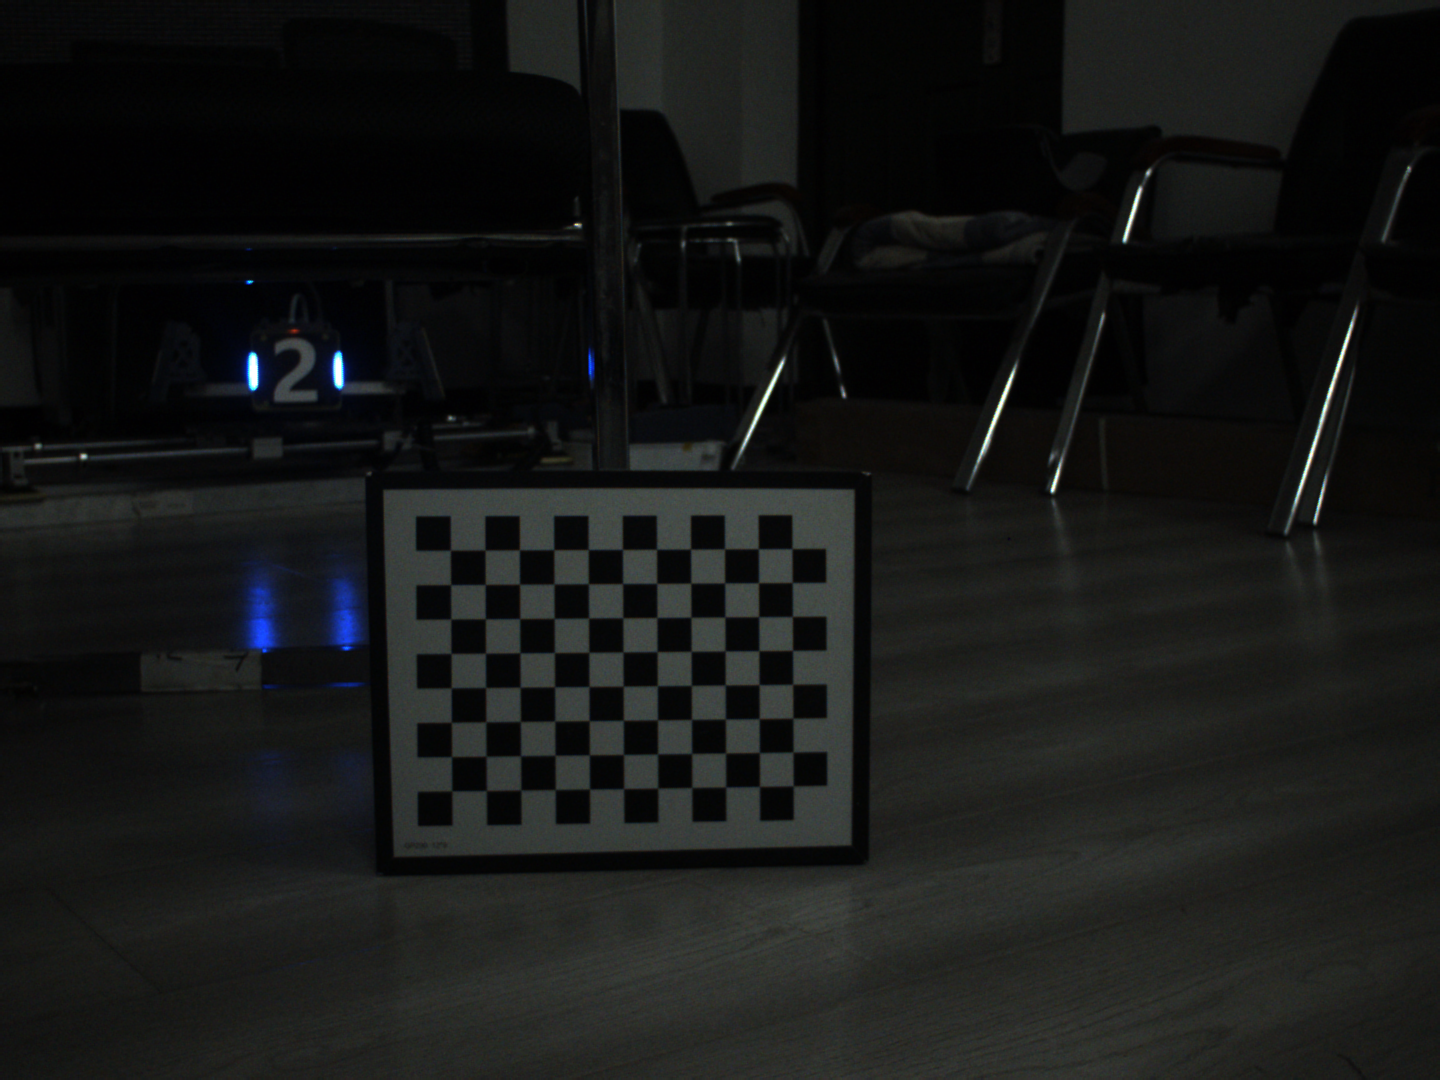
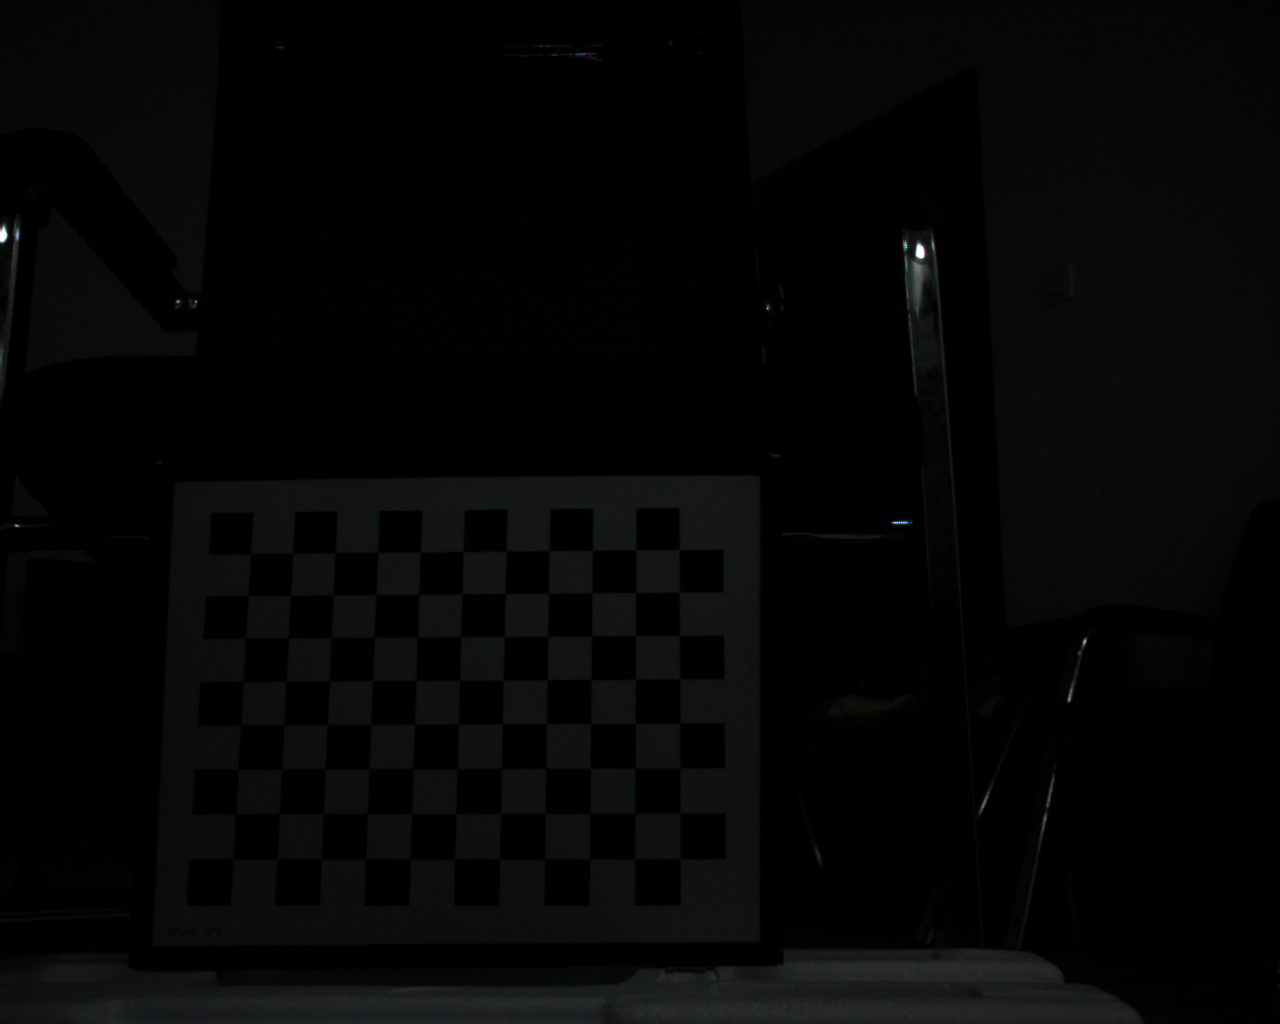
zhanchun

diff --git a/rm-main/include/RerunVisualizer.hpp b/rm-main/include/RerunVisualizer.hpp
@@ -8,12 +8,15 @@
 #include <string>
 #include <cmath>
 
+#include "MeasureCov.hpp" 
+
 // 包含你的 Robot 定义
 #include "Target.hpp" 
 
 class RerunVisualizer {
 private:
     rerun::RecordingStream rec;
+    MeasureCov measure_cov; // 用于计算协方差的工具类实例
 
 public:
     // 构造函数：初始化 Rerun 并唤起 Viewer
@@ -147,7 +150,7 @@ public:
 
         // --- 新增：渲染当前枪管的瞄准射线 (青色长线) ---
         // 假设原点 {0,0,0} 为当前云台/相机位置，枪管是一根 20cm 长的射线
-        rec.log("world/gun_ray",
+        rec.log("world/gun_vector",
             rerun::Arrows3D::from_vectors({{
                 (float)Gun(0, 0) * 20.0f, 
                 (float)Gun(1, 0) * 20.0f, 
@@ -208,58 +211,21 @@ public:
         rec.log("world/EKF/view_yaw",rerun::SeriesLines().with_colors({{0, 255, 255, 255}})); // 青色
         rec.log("world/EKF/view_yaw", 
             rerun::Scalars((float)View(3, 0))); // 青色
-
-        
-        // rec.log("world/EKF/w", rerun::SeriesLines().with_colors({{255, 165, 0, 255}})); // 橙色
-        // rec.log("world/EKF/w", rerun::Scalars(w)); //
-
-        // rec.log("world/EKF/v_total", rerun::SeriesLines().with_colors({{255, 165, 0, 255}})); // 橙色
-        // rec.log("world/EKF/v_total", rerun::Scalars((float)State.block<3,1>(4,0).norm()/100.0f)); // 速度模长
-
-        // ==========================================
-        // 3. 协方差收敛波形图 (监控不确定性)
-        // ==========================================
-        // rec.log("plot/EKF_cov/pos_x_variance", rerun::SeriesLines().with_colors({255, 0, 0, 255}));
-        // rec.log("plot/EKF_cov/pos_y_variance", rerun::SeriesLines().with_colors({0, 255, 0, 255}));
-        // rec.log("plot/EKF_cov/yaw_variance",   rerun::SeriesLines().with_colors({0, 0, 255, 255}));
-
-        // rec.log("plot/EKF_cov/pos_x_variance", rerun::Scalars(CovState(0, 0))); // x 方差
-        // rec.log("plot/EKF_cov/pos_y_variance", rerun::Scalars(CovState(1, 1))); // y 方差
-        // rec.log("plot/EKF_cov/yaw_variance",   rerun::Scalars(CovState(3, 3))); // yaw 方差
-
-        // rec.log("plot/EKF_cov/measurement_x_var", rerun::SeriesLines().with_colors({255, 255, 255, 255}));
-        // rec.log("plot/EKF_cov/measurement_x_var", rerun::Scalars(CovArmor(0, 0)));
-
-        // ==========================================
-        // 4. 卡尔曼增益 (Kalman Gain) 波形图
-        // ==========================================
-        // 假设 View(0) 是 X位置观测，State(0) 是 X位置状态，State(4) 是 X速度状态
-        
-        // A. 观测位置 X 对 状态位置 X 的增益 (K_xx)
-        // rec.log("plot/EKF_gain/gain_posX_to_posX", rerun::SeriesLines().with_colors({255, 100, 100, 255}));
-        // rec.log("plot/EKF_gain/gain_posX_to_posX", rerun::Scalars(KalmanGain(0, 0)));
-
-        // // B. 观测位置 Y 对 状态位置 Y 的增益 (K_yy)
-        // rec.log("plot/EKF_gain/gain_posY_to_posY", rerun::SeriesLines().with_colors({100, 255, 100, 255}));
-        // rec.log("plot/EKF_gain/gain_posY_to_posY", rerun::Scalars(KalmanGain(1, 1)));
-
-        // // C. 观测位置 X 对 状态速度 VX 的增益 (K_vx_x) 
-        // // -> 这个值决定了当目标突然加速时，滤波器修正速度的灵敏度！
-        // rec.log("plot/EKF_gain/gain_posX_to_velX", rerun::SeriesLines().with_colors({255, 200, 0, 255}));
-        // rec.log("plot/EKF_gain/gain_posX_to_velX", rerun::Scalars(KalmanGain(4, 0)));
-        
-        // // D. 观测 yaw 对 状态 yaw_v 的增益 (如果你的模型包含角速度)
-        // rec.log("plot/EKF_gain/gain_yaw_to_yawV", rerun::SeriesLines().with_colors({100, 100, 255, 255}));
-        // rec.log("plot/EKF_gain/gain_yaw_to_yawV", rerun::Scalars(KalmanGain(7, 3))); 
     }
 
 
-    void viewCov(const std::array<double, 4>& CovView) 
+    void viewCov(const Eigen::Matrix<double, 4, 1>& View) 
     {
-        rec.log("Cov/x", rerun::Scalars(CovView[0]));
-        rec.log("Cov/y", rerun::Scalars(CovView[1]));
-        rec.log("Cov/z", rerun::Scalars(CovView[2]));
-        rec.log("Cov/yaw", rerun::Scalars(CovView[3]));
+        std::array<double, 4> CovView = this->measure_cov(View);
+        
+        rec.log("Cov/x", rerun::Scalars((float)CovView[0]));
+        rec.log("Cov/y", rerun::Scalars((float)CovView[1]));
+        rec.log("Cov/z", rerun::Scalars((float)CovView[2]));
+        rec.log("Cov/yaw", rerun::Scalars((float)CovView[3]));
+    }
+    void show(std::string msg,double value)
+    {
+        rec.log(msg, rerun::Scalars((float)value));
     }
 };
 #endif // RERUN_VISUALIZER_HPP

diff --git a/rm-main/src/Solver.cpp b/rm-main/src/Solver.cpp
@@ -8,6 +8,12 @@
 #include <vector>
 #include <numeric>
 
+#define SolverDebug
+#ifdef SolverDebug
+#include "../include/RerunVisualizer.hpp"
+extern RerunVisualizer viz;
+#endif
+
 Solver::Solver(std::string config_path)
 {
     // this->cameraMatrix(3,3);
@@ -82,9 +88,11 @@ std::array<ArmorPosi,2> Solver::operator () (const Armor& armor)
 
         cv::Mat Z_camera_0 = r_0 * Z_vector;
         cv::Mat Z_camera_1 = r_1 * Z_vector;
-
         cv::Mat R,T;
-        // std::cerr<<Z_camera_0.at<double>(2,0)<<" "<<Z_camera_1.at<double>(2,0)<<std::endl;
+        #ifdef SolverDebug
+        viz.show("SmallSolvePnP0", Z_camera_0.at<double>(2,0));
+        viz.show("SmallSolvePnP1", Z_camera_1.at<double>(2,0));
+        #endif
         if(Z_camera_0.at<double>(2,0) > 0) {R = r_0; T = tvecs.front(); error0 = reprojectionError.front();}
         else {R = r_1; T = tvecs.back(); error0 = reprojectionError.back();}
 
@@ -338,13 +346,13 @@ void Solver::Filter(std::vector< std::array<ArmorPosi,2> >& armors_posis,
 
         //相机系下的距离筛选
         if(cv::norm(armor_posis[0].posi) > 800 && cv::norm(armor_posis[1].posi) > 800) continue;
-        
+
         //坐标系变换
         auto small_armor_posis = armor_posis[0];
         auto big_armor_posis = armor_posis[1];
         this->ConverToWorld(small_armor_posis, gripper_to_world);
         this->ConverToWorld(big_armor_posis, gripper_to_world);
-
+        // std::cout<<"small_armor_posis: "<<small_armor_posis.posi.z<<"\n";
         //高度筛选
         if( small_armor_posis.posi.z > 2000 && big_armor_posis.posi.z > 2000 ) continue;
         if( small_armor_posis.posi.z < -50 && big_armor_posis.posi.z < -50 ) continue;

diff --git a/rm-main/main.cpp b/rm-main/main.cpp
@@ -12,6 +12,7 @@
 #include "Function.hpp"
 #include "include/RerunVisualizer.hpp"
 
+#include <chrono>
 #include <cstdio>
 #include <iostream>
 #include <thread>
@@ -37,7 +38,9 @@ struct Test
 
 static FastQueue<FrameData> Frames(10);
 
-io::HikCamera Hik(1,17);
+std::chrono::steady_clock::time_point next_point = std::chrono::steady_clock::now();
+
+io::HikCamera Hik(1.5,15);
 io::RTSerial<Packet> ser(20);
 
 Detector detect(Light::Color::Blue,0.5);//,"../../../rm-main/model/mobilenet_v3_112_rgb.onnx"
@@ -62,7 +65,7 @@ int main() {
 
     std::function<bool(const Packet&)> check_fuc = io::CRC8::Check<Packet>;
     ser.setCheckfuc(check_fuc);
-    int ret = ser.openDevice("/dev/ttyACM0", 460800);
+    int ret = ser.openDevice("/dev/ttyACM1", 460800);
     
     if(ret == 1)
         std::cout<<"serial open ok"<<"\n";
@@ -133,7 +136,8 @@ int main() {
         if(armors_posi.empty()) continue;
 
         Sov.ConverToWorld(armors_posi,frame.quat);
-        robot.Update(armors_posi,0.005);
+        robot.Update(armors_posi,rm::SolveDt(next_point, frame.time,5));
+        next_point = frame.time;
 
         // #ifdef MainDebug
         // std::cout<<"------------------------------------------------\n";

diff --git a/rm-main/Function.cpp b/rm-main/Function.cpp
@@ -1,4 +1,5 @@
 #include "Function.hpp"
+#include <chrono>
 #include <sys/types.h>
 
 void rm::IMUAndImageMatchFunction(io::HikCamera &Hik, io::RTSerial<Packet> &ser, FastQueue<FrameData> &Frames)
@@ -145,4 +146,28 @@ Eigen::Matrix<double, 3, 1> rm::ChooseBestAimArmor(
     
     // 返回被选中的最优装甲板的 3D 绝对坐标
     return aims.block<3, 1>(0, best_id);
+}
+
+double rm::SolveDt(const std::chrono::steady_clock::time_point& start, const std::chrono::steady_clock::time_point& end, double pic) 
+{
+    // 1. 安全检查：如果 pic 为 0，为避免除以零异常，直接返回实际时间差或 0
+    if (std::abs(pic) < 1e-9) {
+        return 0.0; 
+    }
+
+    // 2. 获取时间差，并将单位转换为毫秒 (ms)
+    std::chrono::duration<double, std::milli> diff = end - start;
+    double dt = diff.count();
+
+    // 3. 寻找最接近的倍数 n
+    double n = std::round(dt / pic);
+
+    // 4. 保证 n 为非零整数
+    if (n == 0.0) {
+        // 如果实际时间差为正或 0，则向上取 1 个 pic；如果为负，则向下取 -1 个 pic
+        n = (dt >= 0) ? 1.0 : -1.0;
+    }
+
+    // 5. 返回最接近的 n * pic
+    return n * pic;
 }

diff --git a/rm-main/include/EKFKalman.hpp b/rm-main/include/EKFKalman.hpp
@@ -35,17 +35,24 @@ public:
     //平移加速度和旋转加速度v_x,v_y,v_z,w
     const Eigen::Matrix<double, 4, 4> CovCourseSrc
     {
-        {1000,0,    0,    0},
-        {0,    1000,0,    0},
-        {0,    0,    1000,0},
-        {0,    0,    0,    0.01}
+        {100,0,    0,    0},
+        {0,    100,0,    0},
+        {0,    0,    100,0},
+        {0,    0,    0,    0.0001}
     };
 
     const Eigen::Matrix<double, 4, 4> CovView
     {
-        {64,    0,    0,    0},
-        {0,    64,    0,    0},
-        {0,    0,    64,    0},
+        {100,    0,    0,    0},
+        {0,    100,    0,    0},
+        {0,    0,    100,    0},
+        {0,    0,    0,    0.01}
+    };
+    const Eigen::Matrix<double, 4, 4> CovUnView
+    {
+        {10,    0,    0,    0},
+        {0,    10,    0,    0},
+        {0,    0,    10,    0},
         {0,    0,    0,    0.001}
     };
 

diff --git a/rm-main/Function.hpp b/rm-main/Function.hpp
@@ -20,7 +20,7 @@ namespace rm
                                                    const Eigen::Matrix<double,4, 1>& Speed,
                                                    const Eigen::Matrix<double, 3, 1>& Gun);
     std::deque<Armor> FilterCenterArmor(const std::deque<std::array<ArmorPosi,2>>& armors_posis, const cv::Point3d& Gun, int num = 1);
-    std::array<double,4> MeasureCov(const Eigen::Matrix<double, 4, 1>& view);
+    double SolveDt(const std::chrono::steady_clock::time_point& start, const std::chrono::steady_clock::time_point& end, double pic);
 }
 
 

diff --git a/tools/RobotHandEyeCalibrate/src/HikCamera.cpp b/tools/RobotHandEyeCalibrate/src/HikCamera.cpp
@@ -222,8 +222,8 @@ void HikCamera::continueCap(size_t MaxframeNum)
         {PixelType_Gvsp_BayerGB8, cv::COLOR_BayerGB2RGB},
         {PixelType_Gvsp_BayerBG8, cv::COLOR_BayerBG2RGB}};
       cv::cvtColor(img, dst_image, type_map.at(pixel_type));
-      img = dst_image;
 
+      cv::rotate(dst_image, img, cv::ROTATE_180); // 水平翻转
       Frames.push({img, timestamp});
 
       ret = MV_CC_FreeImageBuffer(handle_, &raw);

diff --git a/rm-main/src/HikCamera.cpp b/rm-main/src/HikCamera.cpp
@@ -222,7 +222,8 @@ void HikCamera::continueCap(size_t MaxframeNum)
         {PixelType_Gvsp_BayerGB8, cv::COLOR_BayerGB2RGB},
         {PixelType_Gvsp_BayerBG8, cv::COLOR_BayerBG2RGB}};
       cv::cvtColor(img, dst_image, type_map.at(pixel_type));
-      img = dst_image;
+
+      cv::rotate(dst_image, img, cv::ROTATE_180); // 水平翻转
 
       Frames.push({img, timestamp});
 

diff --git a/rm-main/src/EKFKalman.cpp b/rm-main/src/EKFKalman.cpp
@@ -118,6 +118,7 @@ Eigen::Matrix<double, 8, 1> EKFKalman::operator()
 
 #ifdef EKFDebug
     viz.EKFKalmanUpdate(ans, CovArmor, View, CovState, K, radius, dt);
+    viz.viewCov(View);
 #endif
 
     return ans;
